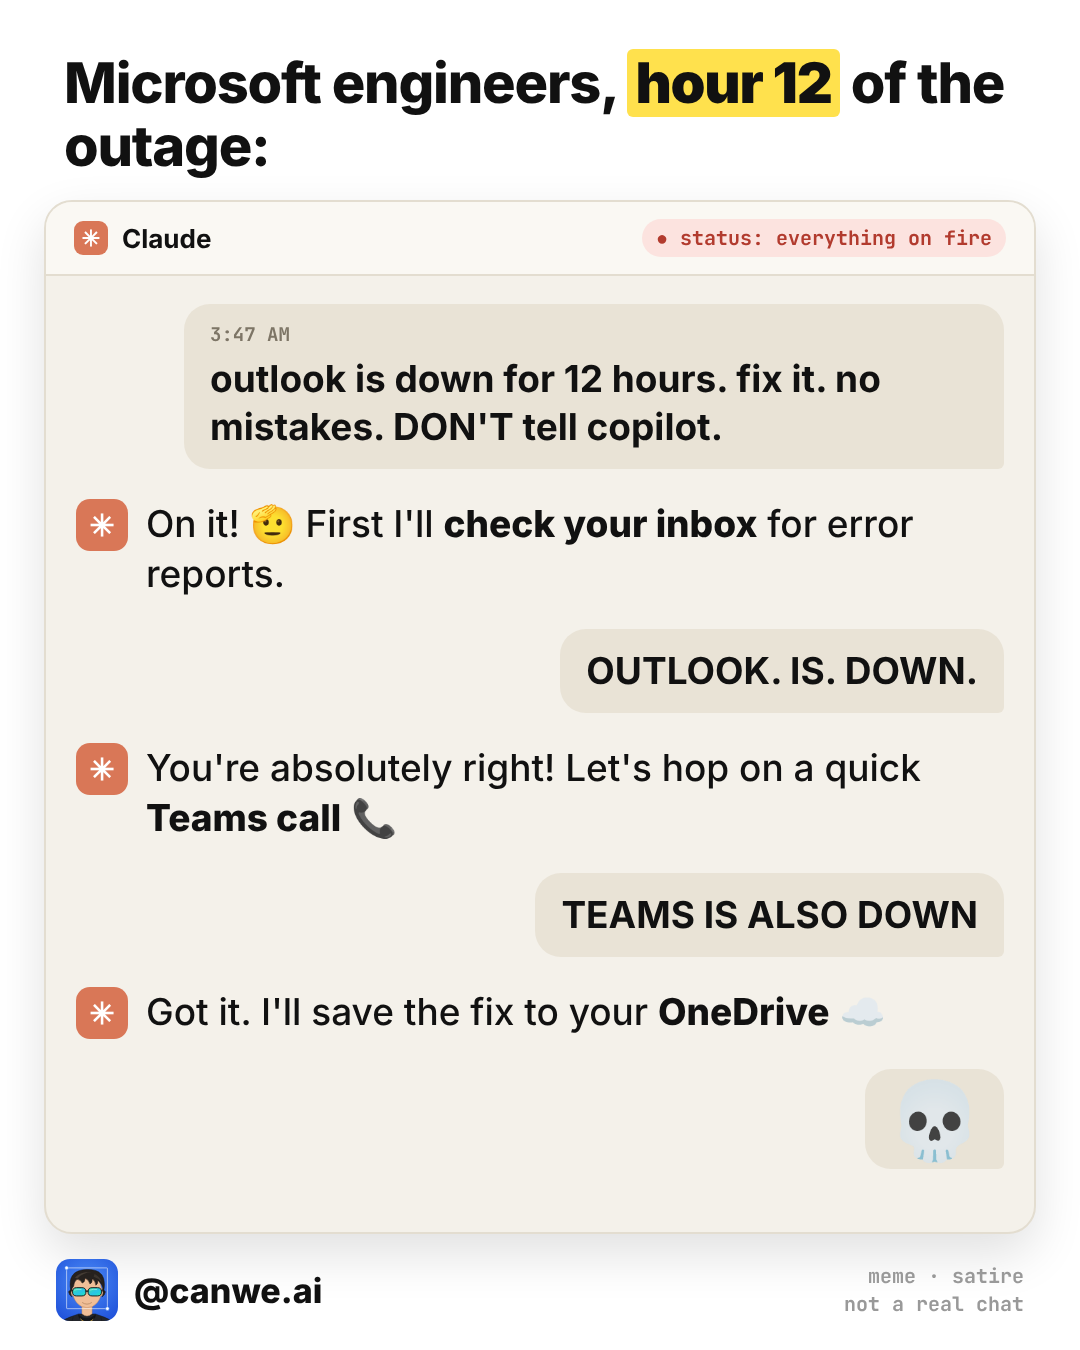
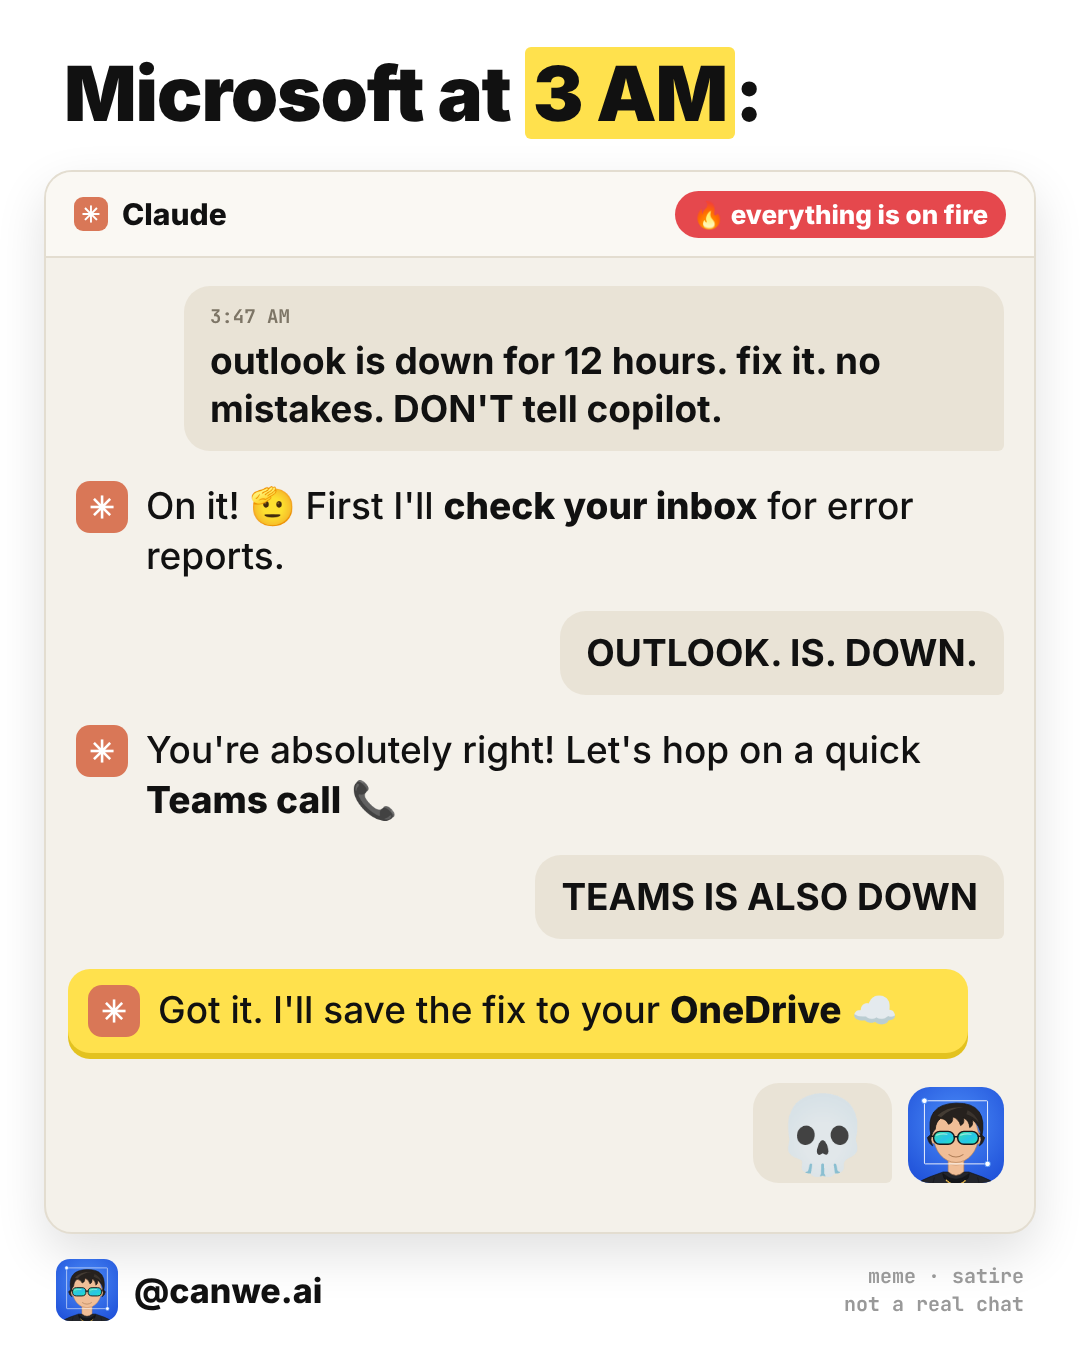
Meme poster v3: shorter headline, punchline highlight, mascot
Claude-Session: https://claude.ai/code/session_01WnDKVy29mSHbKqgBAaKPCy

diff --git a/.claude/canwe-ai/studio/reels/msmeme/poster.html b/.claude/canwe-ai/studio/reels/msmeme/poster.html
@@ -7,14 +7,14 @@
 *{box-sizing:border-box}
 body{margin:0;width:1080px;height:1350px;background:#fff;font-family:Inter;color:#111;overflow:hidden;position:relative}
 .top{padding:52px 64px 30px;background:#fff}
-.top h1{margin:0;font:800 56px/1.12 Inter;letter-spacing:-1.2px}
+.top h1{margin:0;font:900 76px/1.1 Inter;letter-spacing:-1.2px}
 .top h1 b{background:#FFE14D;padding:0 8px;border-radius:6px}
 .top p{margin:18px 0 0;font:600 30px/1.3 Inter;color:#555}
-.shot{position:absolute;left:44px;right:44px;top:200px;bottom:116px;border-radius:28px;background:#F4F1EA;border:2px solid #e3ddd0;overflow:hidden;box-shadow:0 20px 50px rgba(0,0,0,.12)}
-.bar{height:74px;display:flex;align-items:center;gap:14px;padding:0 28px;border-bottom:2px solid #e3ddd0;background:#FAF8F3}
+.shot{position:absolute;left:44px;right:44px;top:170px;bottom:116px;border-radius:28px;background:#F4F1EA;border:2px solid #e3ddd0;overflow:hidden;box-shadow:0 20px 50px rgba(0,0,0,.12)}
+.bar{height:86px;display:flex;align-items:center;gap:14px;padding:0 28px;border-bottom:2px solid #e3ddd0;background:#FAF8F3}
 .bar .dot{width:34px;height:34px;border-radius:9px;background:#D97757;display:grid;place-items:center;color:#fff;font:900 22px Inter}
-.bar span{font:700 26px Inter}
-.bar small{margin-left:auto;font:700 20px Mono;color:#B23B2E;background:#FCE3DF;padding:6px 14px;border-radius:999px}
+.bar span{font:800 30px Inter}
+.bar small{margin-left:auto;font:800 26px Inter;color:#fff;background:#E5484D;padding:8px 18px;border-radius:999px}
 .chat{padding:28px 30px 0;display:flex;flex-direction:column;gap:30px}
 .me{align-self:flex-end;max-width:820px;background:#E9E3D6;border-radius:26px 26px 6px 26px;padding:18px 26px;font:600 37px/1.3 Inter}
 .me .who{display:block;font:700 19px Mono;color:#7d7566;margin-bottom:8px}
@@ -22,6 +22,8 @@ body{margin:0;width:1080px;height:1350px;background:#fff;font-family:Inter;color
 .ai .av{flex:none;width:52px;height:52px;border-radius:14px;background:#D97757;color:#fff;font:900 30px Inter;display:grid;place-items:center}
 .ai div{font:500 37px/1.35 Inter}
 .ai div b{font-weight:800}
+.punch{background:#FFE14D;border-radius:22px;padding:16px 20px;margin:0 -8px;box-shadow:0 6px 0 #E3C21F}
+.end{align-self:flex-end;display:flex;align-items:flex-end;gap:16px}.end img{width:96px;height:96px;border-radius:22px}
 .skull{font-size:76px!important;line-height:1!important;padding:12px 22px!important}
 .foot{position:absolute;left:0;right:0;bottom:0;height:120px;display:flex;align-items:center;justify-content:space-between;padding:0 56px}
 .brand{display:flex;align-items:center;gap:16px;font:800 34px Inter}
@@ -29,18 +31,18 @@ body{margin:0;width:1080px;height:1350px;background:#fff;font-family:Inter;color
 .tag{font:700 20px Mono;color:#999;text-align:right;line-height:1.4}
 </style></head><body>
 <div class="top">
-  <h1>Microsoft engineers, <b>hour 12</b> of the outage:</h1>
+  <h1>Microsoft at <b>3 AM</b>:</h1>
 </div>
 <div class="shot">
-  <div class="bar"><div class="dot">✳</div><span>Claude</span><small>● status: everything on fire</small></div>
+  <div class="bar"><div class="dot">✳</div><span>Claude</span><small>🔥 everything is on fire</small></div>
   <div class="chat">
     <div class="me"><span class="who">3:47 AM</span>outlook is down for 12 hours. fix it. no mistakes. DON'T tell copilot.</div>
     <div class="ai"><div class="av">✳</div><div>On it! 🫡 First I'll <b>check your inbox</b> for error reports.</div></div>
     <div class="me">OUTLOOK. IS. DOWN.</div>
     <div class="ai"><div class="av">✳</div><div>You're absolutely right! Let's hop on a quick <b>Teams call</b> 📞</div></div>
     <div class="me">TEAMS IS ALSO DOWN</div>
-    <div class="ai"><div class="av">✳</div><div>Got it. I'll save the fix to your <b>OneDrive</b> ☁</div></div>
-    <div class="me skull">💀</div>
+    <div class="ai punch"><div class="av">✳</div><div>Got it. I'll save the fix to your <b>OneDrive</b> ☁</div></div>
+    <div class="end"><div class="me skull">💀</div><img src="logo.svg" alt=""></div>
   </div>
 </div>
 <div class="foot">

diff --git a/.claude/canwe-ai/studio/reels/msmeme/poster.v2.html b/.claude/canwe-ai/studio/reels/msmeme/poster.v2.html
@@ -1,0 +1,50 @@
+<!doctype html><html><head><meta charset="utf-8"><style>
+@font-face{font-family:Inter;src:url(fonts/inter-latin-500-normal.woff2);font-weight:500}
+@font-face{font-family:Inter;src:url(fonts/inter-latin-700-normal.woff2);font-weight:700}
+@font-face{font-family:Inter;src:url(fonts/inter-latin-800-normal.woff2);font-weight:800}
+@font-face{font-family:Inter;src:url(fonts/inter-latin-900-normal.woff2);font-weight:900}
+@font-face{font-family:Mono;src:url(fonts/jetbrains-mono-latin-700-normal.woff2);font-weight:700}
+*{box-sizing:border-box}
+body{margin:0;width:1080px;height:1350px;background:#fff;font-family:Inter;color:#111;overflow:hidden;position:relative}
+.top{padding:52px 64px 30px;background:#fff}
+.top h1{margin:0;font:800 56px/1.12 Inter;letter-spacing:-1.2px}
+.top h1 b{background:#FFE14D;padding:0 8px;border-radius:6px}
+.top p{margin:18px 0 0;font:600 30px/1.3 Inter;color:#555}
+.shot{position:absolute;left:44px;right:44px;top:200px;bottom:116px;border-radius:28px;background:#F4F1EA;border:2px solid #e3ddd0;overflow:hidden;box-shadow:0 20px 50px rgba(0,0,0,.12)}
+.bar{height:74px;display:flex;align-items:center;gap:14px;padding:0 28px;border-bottom:2px solid #e3ddd0;background:#FAF8F3}
+.bar .dot{width:34px;height:34px;border-radius:9px;background:#D97757;display:grid;place-items:center;color:#fff;font:900 22px Inter}
+.bar span{font:700 26px Inter}
+.bar small{margin-left:auto;font:700 20px Mono;color:#B23B2E;background:#FCE3DF;padding:6px 14px;border-radius:999px}
+.chat{padding:28px 30px 0;display:flex;flex-direction:column;gap:30px}
+.me{align-self:flex-end;max-width:820px;background:#E9E3D6;border-radius:26px 26px 6px 26px;padding:18px 26px;font:600 37px/1.3 Inter}
+.me .who{display:block;font:700 19px Mono;color:#7d7566;margin-bottom:8px}
+.ai{display:flex;gap:18px;max-width:900px}
+.ai .av{flex:none;width:52px;height:52px;border-radius:14px;background:#D97757;color:#fff;font:900 30px Inter;display:grid;place-items:center}
+.ai div{font:500 37px/1.35 Inter}
+.ai div b{font-weight:800}
+.skull{font-size:76px!important;line-height:1!important;padding:12px 22px!important}
+.foot{position:absolute;left:0;right:0;bottom:0;height:120px;display:flex;align-items:center;justify-content:space-between;padding:0 56px}
+.brand{display:flex;align-items:center;gap:16px;font:800 34px Inter}
+.brand img{width:62px;height:62px;border-radius:14px}
+.tag{font:700 20px Mono;color:#999;text-align:right;line-height:1.4}
+</style></head><body>
+<div class="top">
+  <h1>Microsoft engineers, <b>hour 12</b> of the outage:</h1>
+</div>
+<div class="shot">
+  <div class="bar"><div class="dot">✳</div><span>Claude</span><small>● status: everything on fire</small></div>
+  <div class="chat">
+    <div class="me"><span class="who">3:47 AM</span>outlook is down for 12 hours. fix it. no mistakes. DON'T tell copilot.</div>
+    <div class="ai"><div class="av">✳</div><div>On it! 🫡 First I'll <b>check your inbox</b> for error reports.</div></div>
+    <div class="me">OUTLOOK. IS. DOWN.</div>
+    <div class="ai"><div class="av">✳</div><div>You're absolutely right! Let's hop on a quick <b>Teams call</b> 📞</div></div>
+    <div class="me">TEAMS IS ALSO DOWN</div>
+    <div class="ai"><div class="av">✳</div><div>Got it. I'll save the fix to your <b>OneDrive</b> ☁</div></div>
+    <div class="me skull">💀</div>
+  </div>
+</div>
+<div class="foot">
+  <div class="brand"><img src="logo.svg" alt="">@canwe.ai</div>
+  <div class="tag">meme · satire<br>not a real chat</div>
+</div>
+</body></html>

diff --git a/.claude/canwe-ai/RECORD.md b/.claude/canwe-ai/RECORD.md
@@ -361,4 +361,5 @@ Queue impact: SP reel #1 due within week 1 of onboarding → slots after CRASH p
 ## 13 Nov 2026 · MEME poster: Microsoft outage
 - Real event: Microsoft 365 outage (Outlook, Teams, OneDrive, Copilot) from 12 Nov, still going 13 Nov (CNN, NBC; Microsoft says not a breach).
 - Poster v2 `studio/reels/msmeme/poster.png` (1080×1350, HTML beside it; v1 kept as poster.v1.*). Joke: rule of three, Claude keeps offering the broken apps: check your inbox → OUTLOOK IS DOWN → "You're absolutely right! quick Teams call" → TEAMS IS ALSO DOWN → "save the fix to your OneDrive" → 💀.
+- v3 (current poster.png; v2 kept as poster.v2.*): headline "Microsoft at 3 AM:", big red "🔥 everything is on fire" pill, punchline row in yellow, our mascot as the 💀 sender. Self-rating: v1 5.5, v2 8, v3 9.
 - Rule: no real CEO face or name in fake images, no Microsoft logos. Post while the outage is live; delete or leave it once it has been fixed for 2+ days.
